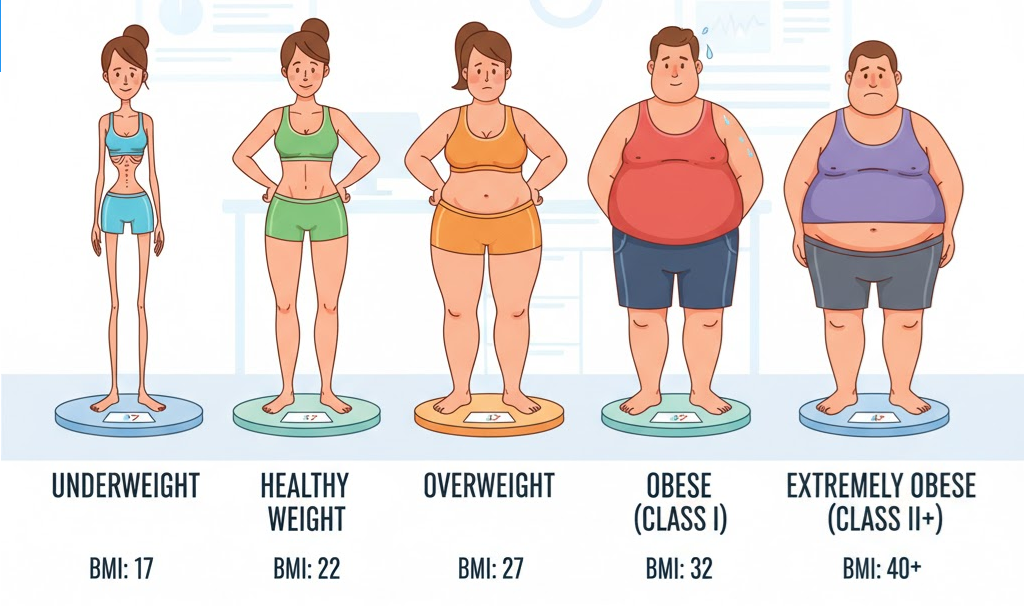
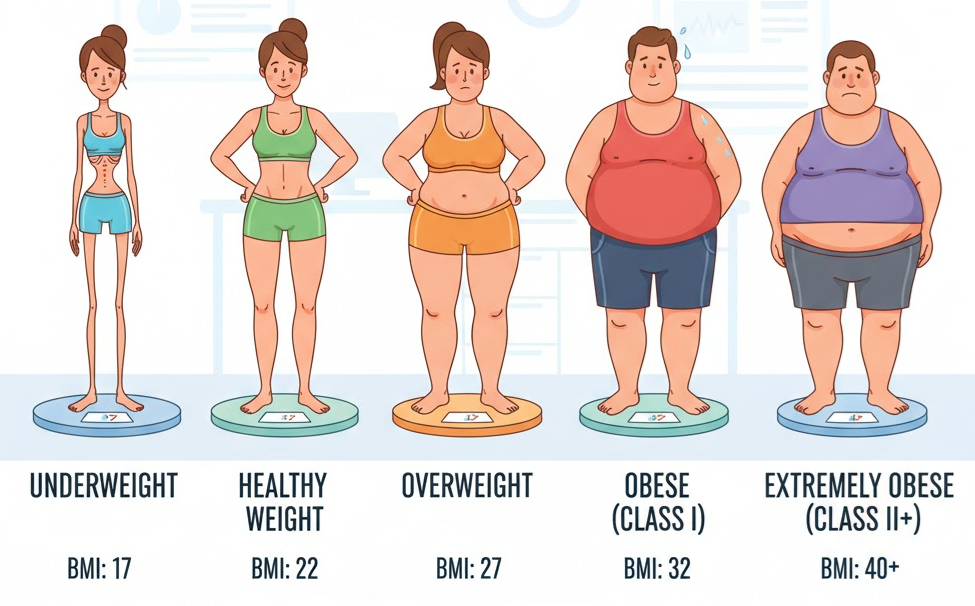
Small corrections

diff --git a/docs/09-browser-apis.md b/docs/09-browser-apis.md
@@ -406,7 +406,7 @@ Create a simple BMI (Body Mass Index) calculator using HTML and JavaScript. The 
 - Display the calculated BMI when a button is clicked.
 - Round the result to one decimal place.
 
-<img style="display: block; margin: auto; border-radius: 0.5rem;" src="https://github.com/KasperKnop/WEB1/blob/main/resources/bmi.png?raw=true" alt="BMI">
+<img style="display: block; margin: auto; border-radius: 0.5rem; width: 80%;" src="https://github.com/KasperKnop/WEB1/blob/main/resources/bmi.png?raw=true" alt="BMI">
 
 ??? tip "Tips"
     - BMI = weight(kg) / height(m)²
